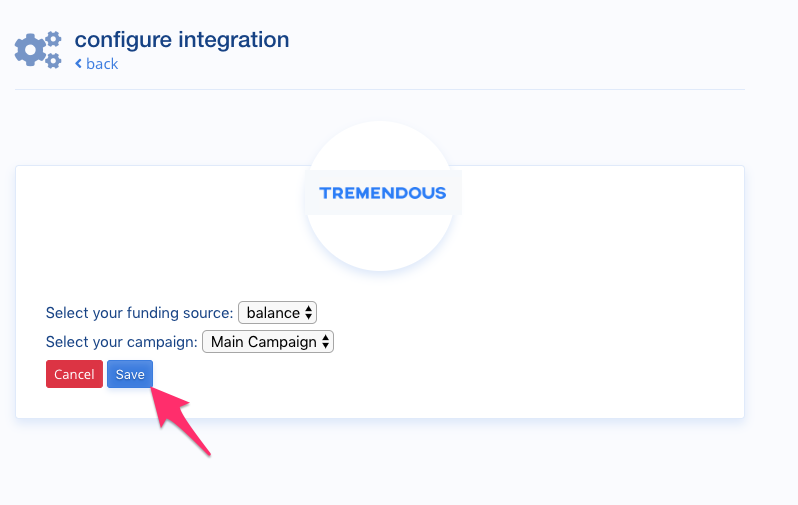
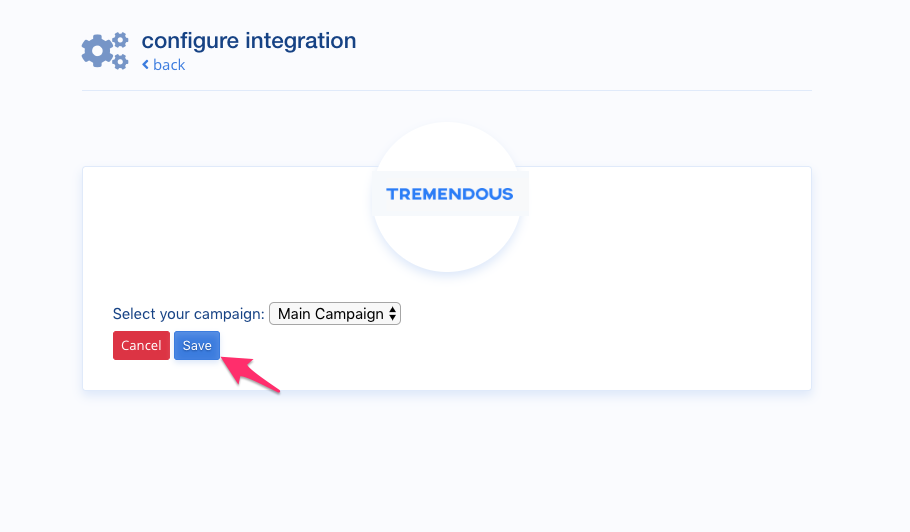
Remove funding source as a choice

diff --git a/tremendous-integration-guide.md b/tremendous-integration-guide.md
@@ -19,7 +19,8 @@ If you do not already have a Tremendous account, you can sign up <a href="https:
 ### Setup Your Tremendous Account
 
 Detailed information on how to configure your Tremendous account can be found in their <a href="http://help.tremendous.com/en/" target="_blank">help documentation</a>. You will need
-to configure a funding source, and setup at least one campaign. 
+to add funds to your account, and setup at least one campaign to decide which gift cards an affiliate can choose and if you
+want to allow bank transfers. 
 
 
 ### Connecting to Tremendous
@@ -39,16 +40,15 @@ be asked to login. After logging in, you will be asked to allow LeadDyno to acce
 ![Authorize Tremendous](img/tremendous/tremendous3.png)
 
 After clicking **AUTHORIZE**, the connection will be established, and you will now see the Tremendous app listed in the Installed
-Apps. Everything is connected, and you can now configure the funding source and campaign by clicking **Edit**.
+Apps. Everything is connected, you can now configure which Tremendous campaign to use by clicking **Edit**.
 
 ![Success](img/tremendous/tremendous4.png)
 
 
 ### Configure Tremendous Settings
 
-From the Edit page, you can select your Tremendous funding source and campaign to use for affiliate payouts. This
-will determine how the gift card/bank transfers will be funded. The campaign determines which gift cards and/or if a
-bank payout option is offered to the affiliate when they redeem their payout.
+From the Edit page, you can select your Tremendous campaign to use for affiliate payouts. This determines which gift 
+cards and/or if a bank payout option is offered to the affiliate when they redeem their payout.
 
 ![Configure Tremendous](img/tremendous/tremendous5.png)
 
